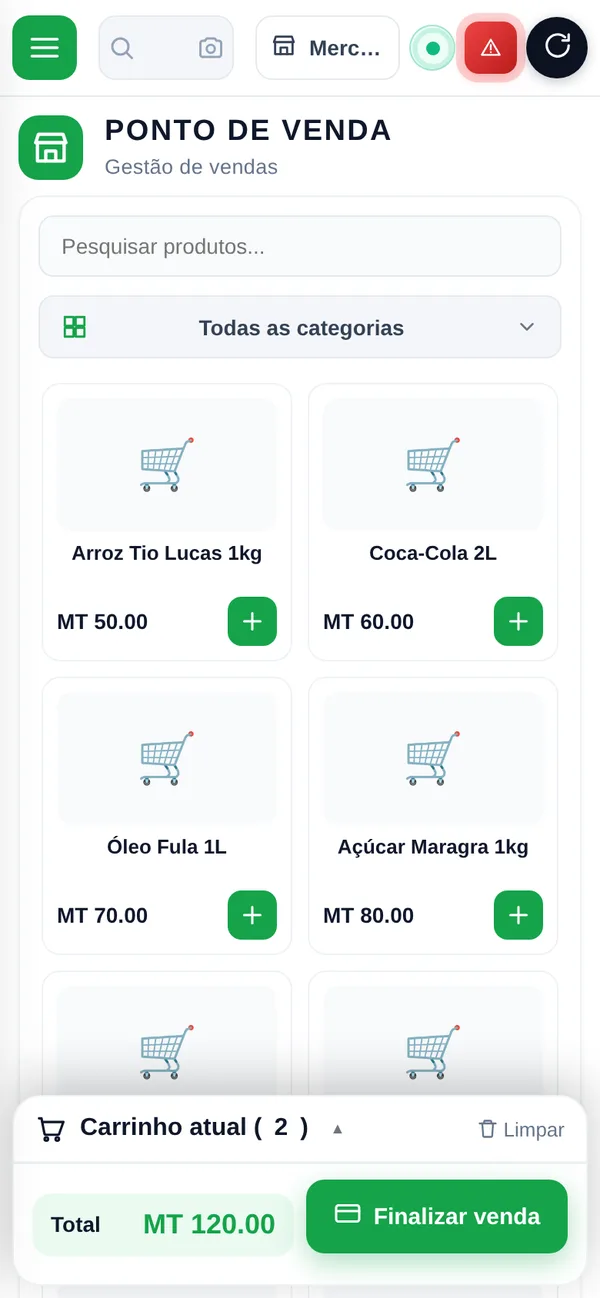
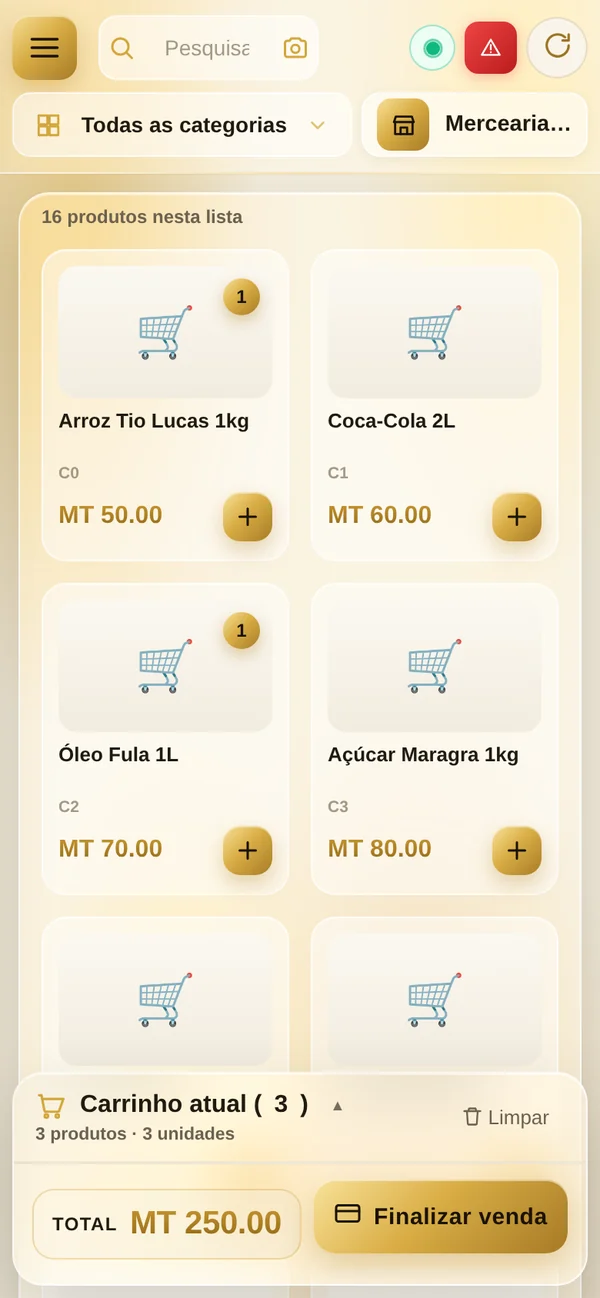
site VendasSTEAM: interface dourada da Loja, monitor actual, título Apps de Venda
Claude-Session: https://claude.ai/code/session_013JtYryxyR4xfNwNEroojrB

diff --git a/vendassteam/index.html b/vendassteam/index.html
@@ -243,6 +243,21 @@ section{padding:88px 0}
 .rodape{background:var(--tinta);color:#9fabcc;font-size:14.5px;border-top:1px solid #23336a}
 .rodape .envolve{display:flex;justify-content:space-between;gap:16px;flex-wrap:wrap;padding:22px 0}
 .rodape a{color:#c4cde6;text-decoration:none}
+
+/* Título central «Apps de Venda» */
+.h-titulo{text-align:center;max-width:980px;margin:0 auto 34px;padding:0 20px;position:relative;z-index:2}
+.h-selo{display:inline-flex;align-items:center;gap:9px;padding:7px 16px 7px 8px;border-radius:999px;background:#fff;border:1px solid var(--linha);box-shadow:0 6px 18px rgba(11,27,77,.07);font-size:13.5px;font-weight:700;letter-spacing:.06em;text-transform:uppercase;color:var(--tinta2)}
+.h-selo img{width:28px;height:28px;border-radius:50%}
+.h-titulo h1{font-size:clamp(54px,10vw,128px);font-weight:800;line-height:.95;letter-spacing:-.045em;margin:20px 0 14px;max-width:none}
+.h-titulo .h-apps{background:linear-gradient(135deg,#0b1b4d 0%,#1d6ff2 100%);-webkit-background-clip:text;background-clip:text;color:transparent}
+.h-titulo .h-de{font-weight:600;font-style:italic;color:var(--tinta2);font-size:.62em;letter-spacing:-.02em;vertical-align:.12em;margin:0 .06em}
+.h-titulo .h-venda{background:linear-gradient(135deg,#f7d46b 0%,#d9a21b 45%,#b77712 100%);-webkit-background-clip:text;background-clip:text;color:transparent;position:relative}
+.h-titulo .h-venda::after{content:"";position:absolute;left:4%;right:2%;bottom:.04em;height:.1em;border-radius:99px;background:linear-gradient(90deg,var(--banca),var(--ouro),var(--loja));opacity:.85;animation:hRisca 1.1s .2s cubic-bezier(.22,1,.36,1) both;transform-origin:left}
+@keyframes hRisca{from{transform:scaleX(0)}to{transform:scaleX(1)}}
+.h-titulo .h-sub{font-size:clamp(18px,2.2vw,24px);font-weight:600;color:var(--tinta2);margin:0 auto;max-width:34em}
+.h-linha{display:flex;justify-content:center;gap:8px;margin-top:20px}.h-linha i{width:34px;height:6px;border-radius:99px;display:block}
+.heroi .h-titulo{animation:hSobe .8s cubic-bezier(.22,1,.36,1) both}
+@keyframes hSobe{from{opacity:0;transform:translateY(18px)}to{opacity:1;transform:none}}
 </style>
 </head>
 <body>
@@ -288,10 +303,15 @@ section{padding:88px 0}
 
 <main id="topo">
   <section class="heroi" id="heroi" style="padding-bottom:0">
+    <div class="h-titulo">
+      <span class="h-selo"><img src="img/ssteam-logo.png" alt="">SSTEAM · Tecnologia varejista de ponta</span>
+      <h1><span class="h-apps">Apps</span> <span class="h-de">de</span> <span class="h-venda">Venda</span></h1>
+      <p class="h-sub">Vender, controlar e crescer — da banca à loja, num só sistema.</p>
+      <div class="h-linha" aria-hidden="true"><i style="background:var(--banca)"></i><i style="background:var(--ouro)"></i><i style="background:var(--loja)"></i><i style="background:var(--monitor)"></i></div>
+    </div>
     <div class="envolve">
       <div>
-        <h1>Venda mais, da banca à loja.</h1>
-        <p class="lead">As apps da SSTEAM para vender e para acompanhar o negócio. Na <b>Loja</b> ou na <b>Banca</b>, uma app regista cada venda e a outra mostra ao dono o que se vendeu, o stock e o lucro, em tempo real e em Meticais.</p>
+        <p class="lead">Ponto de venda completo para <b>lojas</b> e <b>bancas</b>: cada venda fica registada na hora, com recibo, controlo de stock e entrega do caixa por balconista. O <b>Monitor</b> mostra ao dono as vendas, o stock e o lucro em tempo real, em Meticais — e tudo continua a funcionar sem internet.</p>
         <div class="acoes">
           <a class="bt bt-tinta" href="#apps"><svg viewBox="0 0 24 24" aria-hidden="true"><path fill="currentColor" d="M12 3a1 1 0 0 1 1 1v9.6l3.3-3.3a1 1 0 1 1 1.4 1.4l-5 5a1 1 0 0 1-1.4 0l-5-5a1 1 0 0 1 1.4-1.4l3.3 3.3V4a1 1 0 0 1 1-1zM5 19h14a1 1 0 1 1 0 2H5a1 1 0 1 1 0-2z"/></svg>Baixar as apps</a>
           <a class="bt bt-linha" href="#planos">Ver planos e preços</a>
